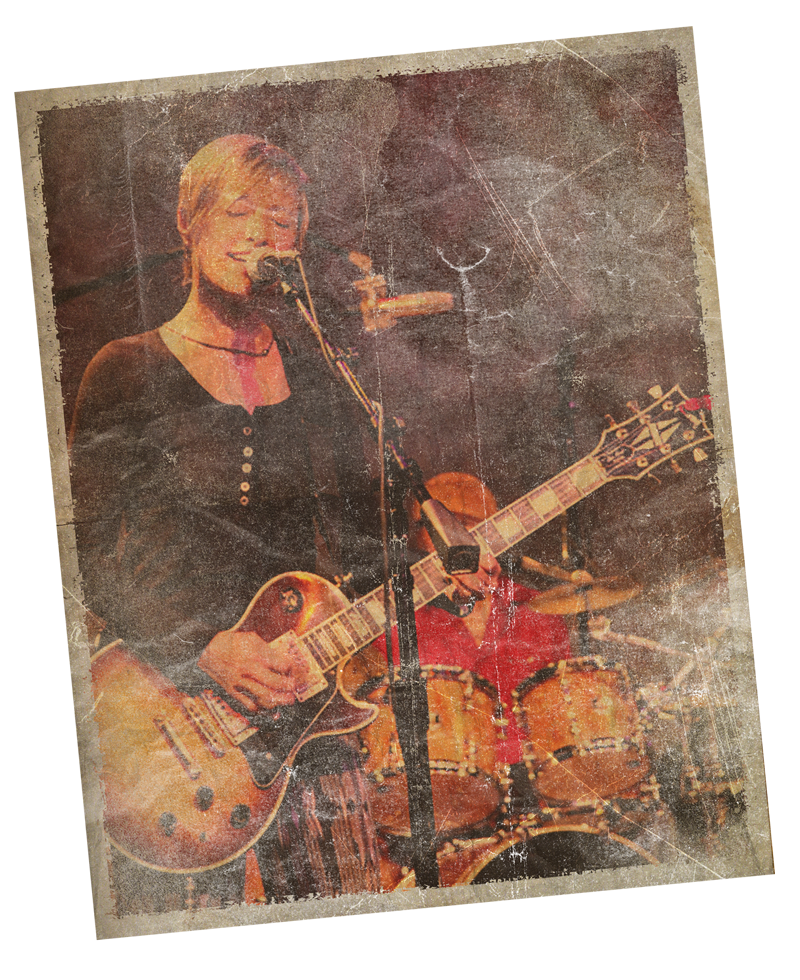
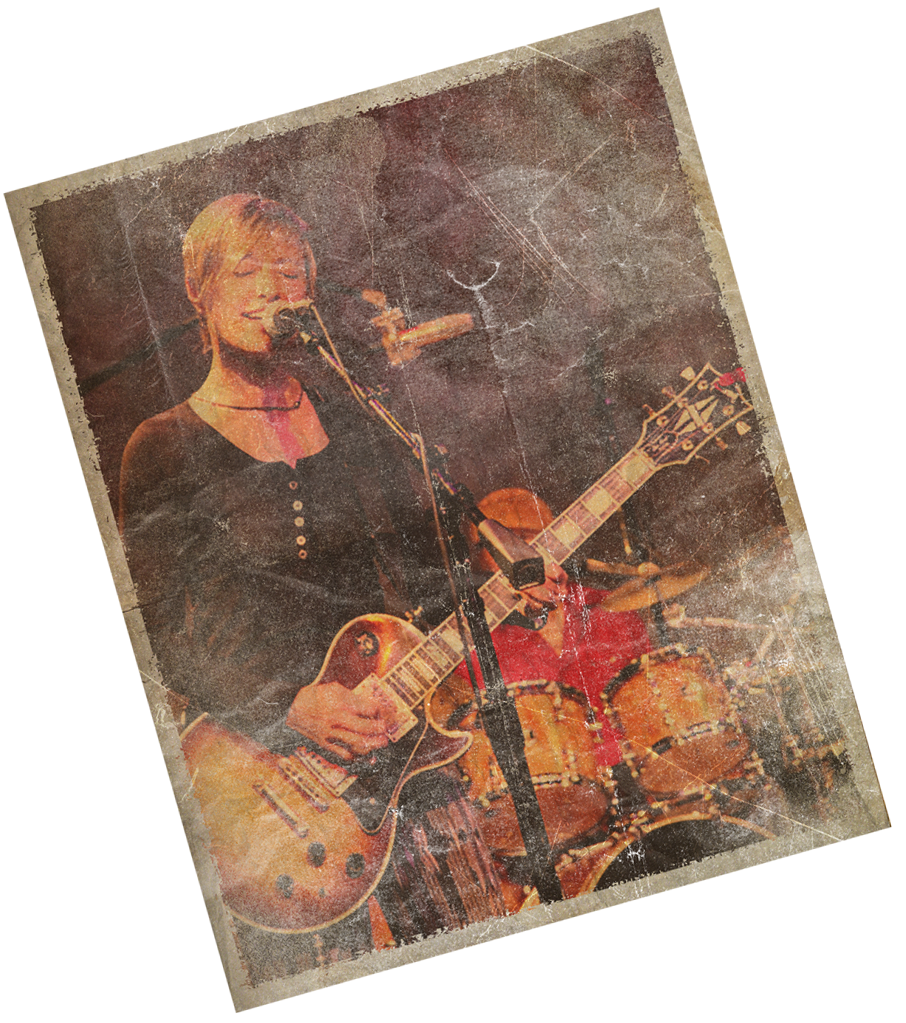
tweaked tunes styles

diff --git a/website/src/pages/index.js b/website/src/pages/index.js
@@ -39,7 +39,7 @@ const IndexPage = () => {
             showMenu ? (
               <div className="menu-text">
               <Link to="/brews">BREWS</Link>
-              <Link>TUNES</Link>
+              <Link to="/tunes">TUNES</Link>
               <Link to="/pix">PIX</Link>
               <Link to="/swag">SWAG</Link>
               <Link to="/facts">FACTS</Link>

diff --git a/website/src/styles/home.css b/website/src/styles/home.css
@@ -401,11 +401,11 @@ img.bg {
 .singer-photo {
     position: absolute;
     top: 0;
-    left: 80px;
+    left: 20px;
 }
 
 .singer-photo > img {
-    width: 320px;
+    width: 380px;
 }
 
 .description-sheet {
